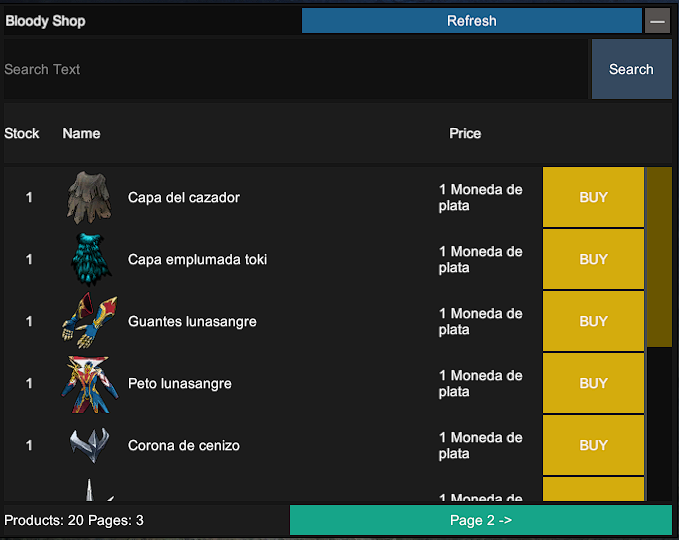
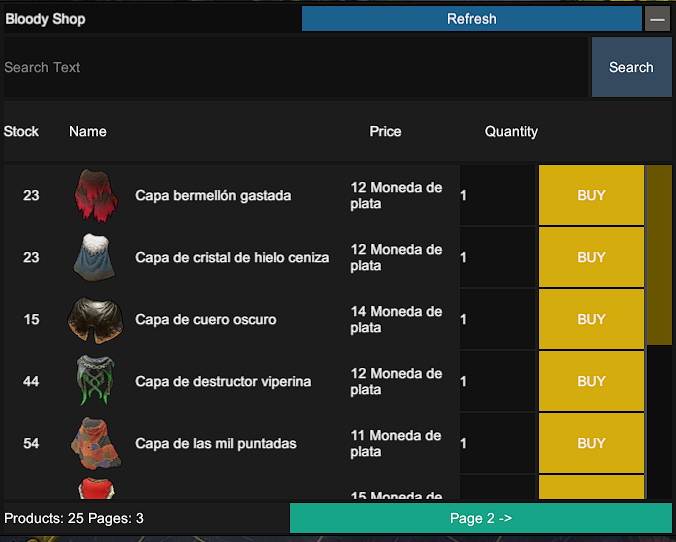
Adjusted the size of the quantity column

diff --git a/Client/UI/Panels/User/ShopPanel.cs b/Client/UI/Panels/User/ShopPanel.cs
@@ -207,15 +207,15 @@ namespace BloodyShop.Client.UI.Panels.User
 
                     //NAME ITEM
                     Text itemName = UIFactory.CreateLabel(_contentProduct, "itemNameTxt-" + index, $" {item.PrefabName}", TextAnchor.MiddleLeft);
-                    UIFactory.SetLayoutElement(itemName.gameObject, minWidth: 210, minHeight: 60, flexibleHeight: 0, preferredHeight: 60, flexibleWidth: 0, preferredWidth: 210);
+                    UIFactory.SetLayoutElement(itemName.gameObject, minWidth: 230, minHeight: 60, flexibleHeight: 0, preferredHeight: 60, flexibleWidth: 0, preferredWidth: 230);
 
                     // PRICE ITEM
                     Text itemPrice = UIFactory.CreateLabel(_contentProduct, "itemPriceTxt-" + index, $"{item.PrefabPrice} {coin.Name}");
                     UIFactory.SetLayoutElement(itemPrice.gameObject, minWidth: 100, minHeight: 60, flexibleHeight: 0, preferredHeight: 60, flexibleWidth: 0, preferredWidth: 100);
 
                     // QUANTITY ITEM
-                    var quantityNew = UIFactory.CreateInputField(_contentProduct, "quantityNew|" + index, "Stock");
-                    UIFactory.SetLayoutElement(quantityNew.GameObject, minWidth: 70, minHeight: 30, flexibleHeight: 0, preferredHeight: 30, flexibleWidth: 0, preferredWidth: 50);
+                    var quantityNew = UIFactory.CreateInputField(_contentProduct, "quantityNew|" + index, "Quantity");
+                    UIFactory.SetLayoutElement(quantityNew.GameObject, minWidth: 40, minHeight: 60, flexibleHeight: 0, preferredHeight: 60, flexibleWidth: 0, preferredWidth: 40);
                     quantityNew.Component.contentType = InputField.ContentType.IntegerNumber;
                     quantityNew.Text = "1";
                     quantityNew.Text.PadLeft(2);
